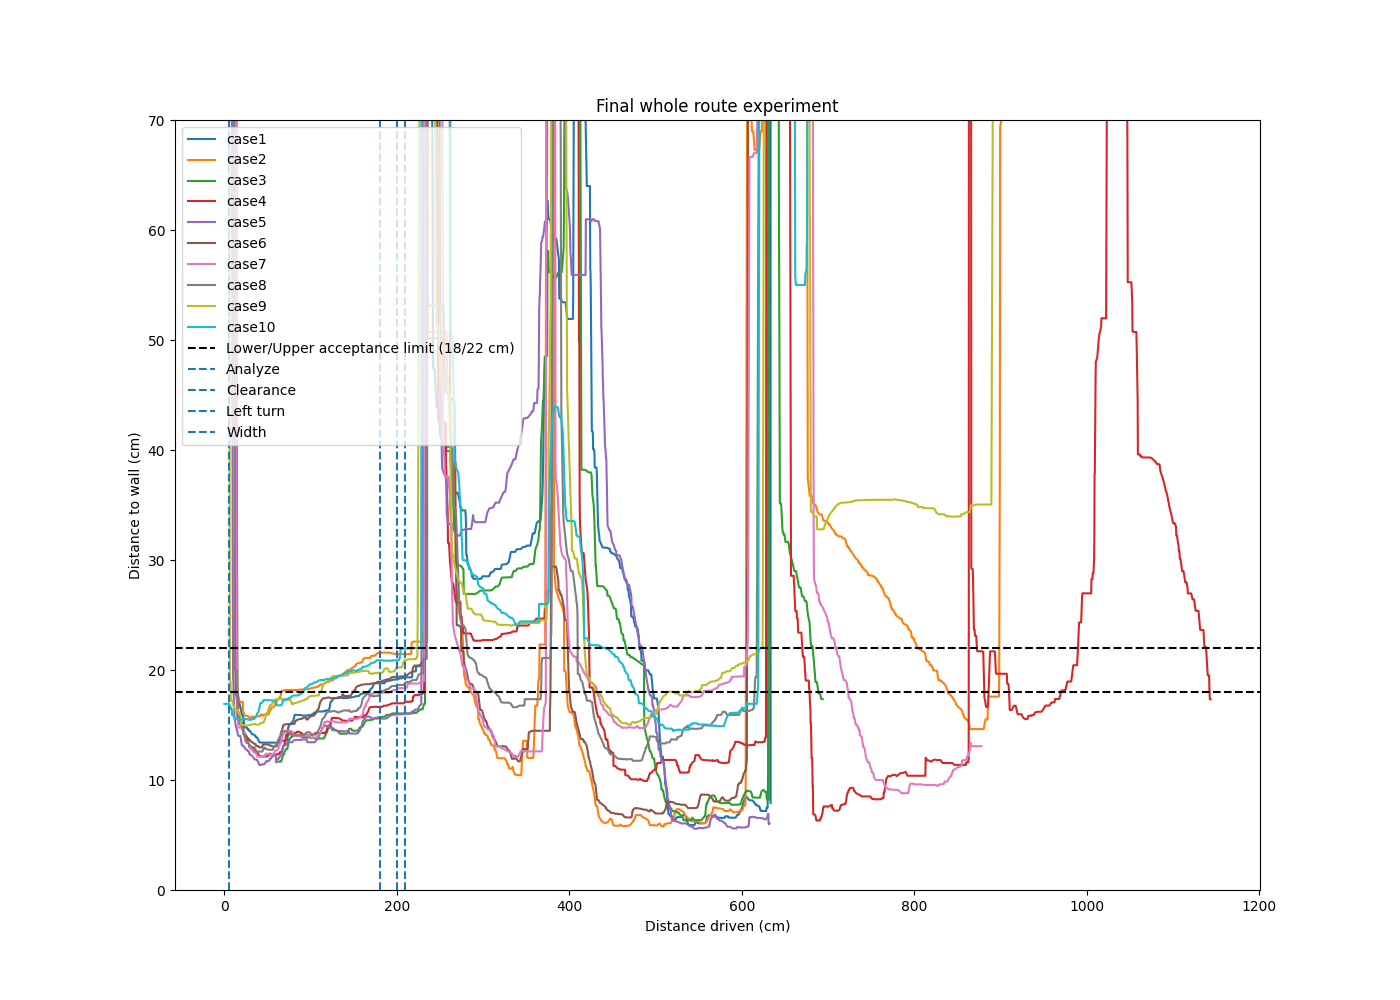
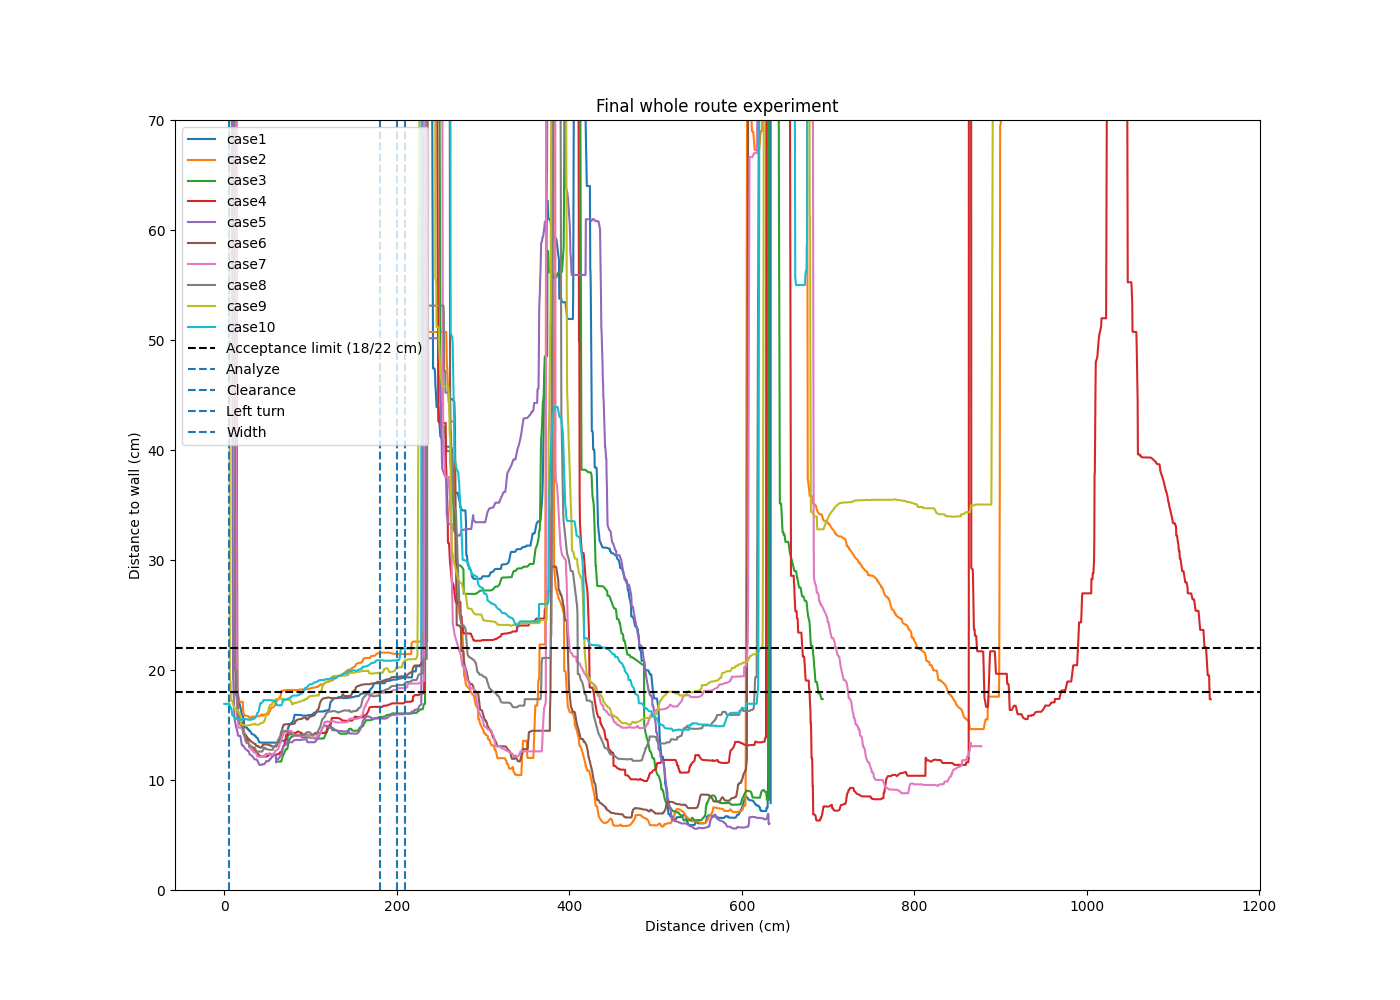
Real trial changes (#44)
* Small fixes to real-trial experiments plots

* Add descriptive statistics for 1-straight-line experiment

* Add descriptive statistics for 2-straight-line-stops experiment

---------

Changed region(s): [[0.1536, 0.124, 0.3686, 0.465]]

diff --git a/docs/experiment-plots/straight-line-plot.py b/docs/experiment-plots/straight-line-plot.py
@@ -1,9 +1,12 @@
 import numpy as np
+import statistics
 import matplotlib.pyplot as plt
 from bag_decoder import BagFileParser
 
 
-def individual_summary_boxplot(summary_data_list, output_destination_folder, cases, fig_width=10, fig_height=6):
+def individual_summary_boxplot(
+    summary_data_list, output_destination_folder, cases, fig_width=10, fig_height=6
+):
     plt.figure(figsize=(fig_width, fig_height))
     # data[1] is ultrasonic distance
     plt.boxplot([data[1] for data in summary_data_list], labels=cases)
@@ -14,15 +17,57 @@ def individual_summary_boxplot(summary_data_list, output_destination_folder, cas
 
     plt.savefig(f"{output_destination_folder}/individual_box_plots.png")
 
+
 def summary_boxplot(all_min_distances, output_destination_folder, fig_width=10, fig_height=6):
     plt.figure(figsize=(fig_width, fig_height))
     plt.boxplot(all_min_distances, showfliers=False)
-    plt.xlabel('All cases')
-    plt.ylabel('Distance to wall')
-    plt.title('Summary box plot')
+    plt.xlabel("All cases")
+    plt.ylabel("Distance to wall")
+    plt.title("Summary box plot")
     plt.tight_layout()
 
     plt.savefig(f"{output_destination_folder}/summary_box_plot.png")
+
+
+def write_dict_to_file(stats_dict, filename):
+    with open(filename, "w") as file:
+        for key, value in stats_dict.items():
+            file.write(f"{key}: {value}\n")
+
+
+def summary_statistics(experiment_name, data_list):
+    # ensure list is made of floats
+    data_list = list(map(float, data_list))
+    data_list.sort()
+
+    # calculate statistics
+    stats_dict = {}
+    stats_dict["experiment"] = f"{experiment_name}"
+
+    stats_dict["mean"] = statistics.mean(data_list)
+    stats_dict["median"] = statistics.median(data_list)
+    stats_dict["standard_deviation"] = statistics.stdev(data_list)
+    stats_dict["minimum"] = min(data_list)
+    stats_dict["maximum"] = max(data_list)
+    stats_dict["range"] = stats_dict["maximum"] - stats_dict["minimum"]
+    stats_dict["midrange"] = (stats_dict["maximum"] + stats_dict["minimum"]) / 2
+    try:
+        stats_dict["mode"] = statistics.mode(data_list)
+    except statistics.StatisticsError:
+        stats_dict["mode"] = None
+
+    # calculate quartiles
+    q1 = np.percentile(data_list, 25)
+    q3 = np.percentile(data_list, 75)
+    stats_dict["q1"] = q1
+    stats_dict["q3"] = q3
+    stats_dict["interquartile_range"] = q3 - q1
+
+    # size
+    stats_dict["size"] = len(data_list)
+
+    return stats_dict
+
 
 def main():
     cases = [
@@ -100,15 +145,13 @@ def main():
         all_min_distances.extend(min_distances_filtered)
 
     # Summary plot
-    plt.figure(figsize=(14, 10))
+    plt.figure(figsize=(10, 10))
 
     for i, (encoder_filtered, min_distances_filtered) in enumerate(summary_data):
         plt.plot(encoder_filtered, min_distances_filtered, label=cases[i])
 
     # Add acceptance range lines
-    plt.axhline(
-        y=18, color="black", linestyle="--", label="Lower/Upper acceptance limit (18/22 cm)"
-    )
+    plt.axhline(y=18, color="black", linestyle="--", label="Acceptance limit (18/22 cm)")
     plt.axhline(y=22, color="black", linestyle="--")
 
     plt.xlabel("Distance driven (cm)")
@@ -122,6 +165,12 @@ def main():
     individual_summary_boxplot(summary_data, output_folder, cases)
     # Summarizing box plot
     summary_boxplot(all_min_distances, output_folder)
+
+    # descriptive statistics for all cases combined
+    print(f"Computing statistics for {output_folder} ...")
+    distance_stats_dict = summary_statistics(output_folder, all_min_distances)
+    descriptive_stats_filename = f"{output_folder}/{output_folder}_stats.txt"
+    write_dict_to_file(distance_stats_dict, descriptive_stats_filename)
 
 
 if __name__ == "__main__":

diff --git a/docs/experiment-plots/straight-line-stops-plot.py b/docs/experiment-plots/straight-line-stops-plot.py
@@ -1,4 +1,5 @@
 import numpy as np
+import statistics
 import matplotlib.pyplot as plt
 from bag_decoder import BagFileParser
 
@@ -26,6 +27,46 @@ def summary_boxplot(all_min_distances, output_destination_folder, fig_width=10, 
     plt.tight_layout()
 
     plt.savefig(f"{output_destination_folder}/summary_box_plot.png")
+
+
+def write_dict_to_file(stats_dict, filename):
+    with open(filename, 'w') as file:
+        for key, value in stats_dict.items():
+            file.write(f"{key}: {value}\n")
+
+
+def summary_statistics(experiment_name, data_list):
+    # ensure list is made of floats
+    data_list = list(map(float, data_list))
+    data_list.sort()
+
+    # calculate statistics
+    stats_dict = {}
+    stats_dict['experiment'] = f'{experiment_name}'
+
+    stats_dict['mean'] = statistics.mean(data_list)
+    stats_dict['median'] = statistics.median(data_list)
+    stats_dict['standard_deviation'] = statistics.stdev(data_list)
+    stats_dict['minimum'] = min(data_list)
+    stats_dict['maximum'] = max(data_list)
+    stats_dict['range'] = stats_dict['maximum'] - stats_dict['minimum']
+    stats_dict['midrange'] = (stats_dict['maximum'] + stats_dict['minimum']) / 2
+    try:
+        stats_dict['mode'] = statistics.mode(data_list)
+    except statistics.StatisticsError:
+        stats_dict['mode'] = None
+
+    # calculate quartiles
+    q1 = np.percentile(data_list, 25)
+    q3 = np.percentile(data_list, 75)
+    stats_dict['q1'] = q1
+    stats_dict['q3'] = q3
+    stats_dict['interquartile_range'] = q3 - q1
+
+    # size
+    stats_dict['size'] = len(data_list)
+
+    return stats_dict
 
 
 if __name__ == "__main__":
@@ -104,7 +145,7 @@ if __name__ == "__main__":
         all_min_distances.extend(min_distances_filtered)
 
     # Summary plot
-    plt.figure(figsize=(14, 10))
+    plt.figure(figsize=(10, 10))
 
     for i, (encoder_filtered, min_distances_filtered) in enumerate(summary_data):
         plt.plot(encoder_filtered, min_distances_filtered, label=cases[i])
@@ -112,7 +153,7 @@ if __name__ == "__main__":
     # Add acceptance range lines
     lower_limit = 17
     upper_limit = 23
-    limit_label = f"Lower/Upper acceptance limit ({lower_limit}/{upper_limit} cm)"
+    limit_label = f"Acceptance limit ({lower_limit}/{upper_limit} cm)"
     plt.axhline(
         y=lower_limit, color="black", linestyle="--", label=limit_label
     )
@@ -122,9 +163,9 @@ if __name__ == "__main__":
     plt.ylabel("Distance to wall (cm)")
     plt.title("Straight line with stops experiment")
 
-    plt.ylim(0, 70)  # Adjust the y-axis to range from 0 to 50
+    plt.ylim(5, 30)  # Adjust the y-axis to range from 0 to 50
 
-    plt.legend(loc="upper left")  # Legend moved to outside of plot
+    plt.legend(loc="lower left")  # Legend moved to outside of plot
 
     plt.savefig(f"{output_folder}/summary_plot.png")
 
@@ -132,3 +173,9 @@ if __name__ == "__main__":
     individual_summary_boxplot(summary_data, output_folder)
     # Summarizing box plot
     summary_boxplot(all_min_distances, output_folder)
+
+    # descriptive statistics for all cases combined
+    print(f"Computing statistics for {output_folder} ...")
+    distance_stats_dict = summary_statistics(output_folder, all_min_distances)
+    descriptive_stats_filename = f"{output_folder}/{output_folder}_stats.txt"
+    write_dict_to_file(distance_stats_dict, descriptive_stats_filename)

diff --git a/docs/experiment-plots/final-whole-route-plot.py b/docs/experiment-plots/final-whole-route-plot.py
@@ -83,7 +83,7 @@ if __name__ == "__main__":
 
     # Add acceptance range lines
     plt.axhline(
-        y=18, color="black", linestyle="--", label="Lower/Upper acceptance limit (18/22 cm)"
+        y=18, color="black", linestyle="--", label="Acceptance limit (18/22 cm)"
     )
     plt.axhline(y=22, color="black", linestyle="--")
 

diff --git a/docs/experiment-plots/pid-plot.py b/docs/experiment-plots/pid-plot.py
@@ -1,5 +1,4 @@
 import numpy as np
-from scipy import stats
 import statistics
 import matplotlib.pyplot as plt
 from bag_decoder import BagFileParser
